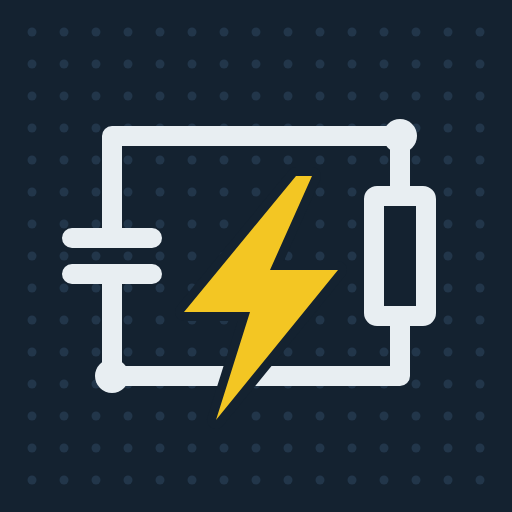
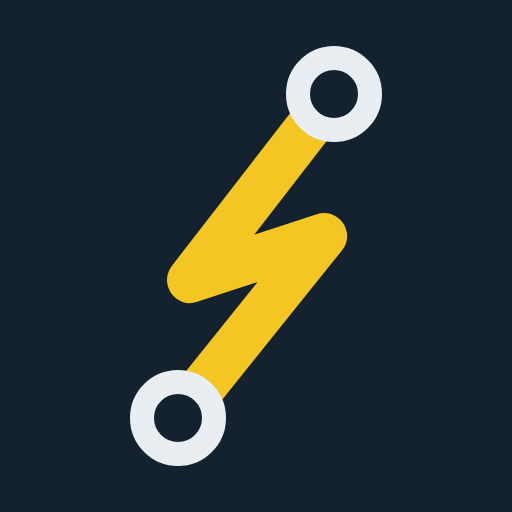
Add files via upload

Changed region(s): [[0.0938, 0.0625, 0.875, 0.9375]]

diff --git a/index.html b/index.html
@@ -79,6 +79,14 @@ html.standalone #splash { display: flex; }
 #splash.out { opacity: 0; pointer-events: none; }
 #splash svg { width: 30vmin; height: 30vmin; border-radius: 22%; }
 #splash span { color: #e8eef2; font: 600 28px/1 var(--f-cond); letter-spacing: .02em; }
+/* App installée sur l'écran d'accueil : iOS calcule height: 100% trop court en plein écran,
+   on ancre donc l'app sur tout l'écran et chaque barre gère sa propre marge de sécurité. */
+html.standalone { padding: 0; background: var(--chrome); }
+html.standalone #app { position: fixed; inset: 0; height: auto; padding-left: env(safe-area-inset-left, 0px); padding-right: env(safe-area-inset-right, 0px); }
+html.standalone .top { padding-top: calc(8px + env(safe-area-inset-top, 0px)); }
+html.standalone .tools { padding-bottom: calc(6px + env(safe-area-inset-bottom, 0px)); }
+html.standalone .net-wrap { padding-bottom: calc(12px + env(safe-area-inset-bottom, 0px)); }
+html.standalone .scroll { padding-bottom: calc(32px + env(safe-area-inset-bottom, 0px)); }
 .iconbtn { flex: 0 0 auto; width: 42px; height: 42px; display: grid; place-items: center; border: 1px solid var(--line); border-radius: 11px; background: var(--surface); color: var(--ink); padding: 0; }
 .iconbtn svg { width: 22px; height: 22px; fill: none; stroke: currentColor; stroke-width: 2; stroke-linecap: round; stroke-linejoin: round; }
 .iconbtn.sm { width: 36px; height: 36px; border-radius: 10px; }
@@ -216,15 +224,11 @@ h3.sec { margin: 22px 0 6px; font: 600 18px/1.2 var(--f-cond); }
 <body>
 <div id="splash" aria-hidden="true"><svg xmlns="http://www.w3.org/2000/svg" viewBox="0 0 512 512">
 <rect width="512" height="512" fill="#142230"/>
-<g fill="#22364a"><circle cx="32" cy="32" r="4.5"/><circle cx="32" cy="64" r="4.5"/><circle cx="32" cy="96" r="4.5"/><circle cx="32" cy="128" r="4.5"/><circle cx="32" cy="160" r="4.5"/><circle cx="32" cy="192" r="4.5"/><circle cx="32" cy="224" r="4.5"/><circle cx="32" cy="256" r="4.5"/><circle cx="32" cy="288" r="4.5"/><circle cx="32" cy="320" r="4.5"/><circle cx="32" cy="352" r="4.5"/><circle cx="32" cy="384" r="4.5"/><circle cx="32" cy="416" r="4.5"/><circle cx="32" cy="448" r="4.5"/><circle cx="32" cy="480" r="4.5"/><circle cx="64" cy="32" r="4.5"/><circle cx="64" cy="64" r="4.5"/><circle cx="64" cy="96" r="4.5"/><circle cx="64" cy="128" r="4.5"/><circle cx="64" cy="160" r="4.5"/><circle cx="64" cy="192" r="4.5"/><circle cx="64" cy="224" r="4.5"/><circle cx="64" cy="256" r="4.5"/><circle cx="64" cy="288" r="4.5"/><circle cx="64" cy="320" r="4.5"/><circle cx="64" cy="352" r="4.5"/><circle cx="64" cy="384" r="4.5"/><circle cx="64" cy="416" r="4.5"/><circle cx="64" cy="448" r="4.5"/><circle cx="64" cy="480" r="4.5"/><circle cx="96" cy="32" r="4.5"/><circle cx="96" cy="64" r="4.5"/><circle cx="96" cy="96" r="4.5"/><circle cx="96" cy="128" r="4.5"/><circle cx="96" cy="160" r="4.5"/><circle cx="96" cy="192" r="4.5"/><circle cx="96" cy="224" r="4.5"/><circle cx="96" cy="256" r="4.5"/><circle cx="96" cy="288" r="4.5"/><circle cx="96" cy="320" r="4.5"/><circle cx="96" cy="352" r="4.5"/><circle cx="96" cy="384" r="4.5"/><circle cx="96" cy="416" r="4.5"/><circle cx="96" cy="448" r="4.5"/><circle cx="96" cy="480" r="4.5"/><circle cx="128" cy="32" r="4.5"/><circle cx="128" cy="64" r="4.5"/><circle cx="128" cy="96" r="4.5"/><circle cx="128" cy="128" r="4.5"/><circle cx="128" cy="160" r="4.5"/><circle cx="128" cy="192" r="4.5"/><circle cx="128" cy="224" r="4.5"/><circle cx="128" cy="256" r="4.5"/><circle cx="128" cy="288" r="4.5"/><circle cx="128" cy="320" r="4.5"/><circle cx="128" cy="352" r="4.5"/><circle cx="128" cy="384" r="4.5"/><circle cx="128" cy="416" r="4.5"/><circle cx="128" cy="448" r="4.5"/><circle cx="128" cy="480" r="4.5"/><circle cx="160" cy="32" r="4.5"/><circle cx="160" cy="64" r="4.5"/><circle cx="160" cy="96" r="4.5"/><circle cx="160" cy="128" r="4.5"/><circle cx="160" cy="160" r="4.5"/><circle cx="160" cy="192" r="4.5"/><circle cx="160" cy="224" r="4.5"/><circle cx="160" cy="256" r="4.5"/><circle cx="160" cy="288" r="4.5"/><circle cx="160" cy="320" r="4.5"/><circle cx="160" cy="352" r="4.5"/><circle cx="160" cy="384" r="4.5"/><circle cx="160" cy="416" r="4.5"/><circle cx="160" cy="448" r="4.5"/><circle cx="160" cy="480" r="4.5"/><circle cx="192" cy="32" r="4.5"/><circle cx="192" cy="64" r="4.5"/><circle cx="192" cy="96" r="4.5"/><circle cx="192" cy="128" r="4.5"/><circle cx="192" cy="160" r="4.5"/><circle cx="192" cy="192" r="4.5"/><circle cx="192" cy="224" r="4.5"/><circle cx="192" cy="256" r="4.5"/><circle cx="192" cy="288" r="4.5"/><circle cx="192" cy="320" r="4.5"/><circle cx="192" cy="352" r="4.5"/><circle cx="192" cy="384" r="4.5"/><circle cx="192" cy="416" r="4.5"/><circle cx="192" cy="448" r="4.5"/><circle cx="192" cy="480" r="4.5"/><circle cx="224" cy="32" r="4.5"/><circle cx="224" cy="64" r="4.5"/><circle cx="224" cy="96" r="4.5"/><circle cx="224" cy="128" r="4.5"/><circle cx="224" cy="160" r="4.5"/><circle cx="224" cy="192" r="4.5"/><circle cx="224" cy="224" r="4.5"/><circle cx="224" cy="256" r="4.5"/><circle cx="224" cy="288" r="4.5"/><circle cx="224" cy="320" r="4.5"/><circle cx="224" cy="352" r="4.5"/><circle cx="224" cy="384" r="4.5"/><circle cx="224" cy="416" r="4.5"/><circle cx="224" cy="448" r="4.5"/><circle cx="224" cy="480" r="4.5"/><circle cx="256" cy="32" r="4.5"/><circle cx="256" cy="64" r="4.5"/><circle cx="256" cy="96" r="4.5"/><circle cx="256" cy="128" r="4.5"/><circle cx="256" cy="160" r="4.5"/><circle cx="256" cy="192" r="4.5"/><circle cx="256" cy="224" r="4.5"/><circle cx="256" cy="256" r="4.5"/><circle cx="256" cy="288" r="4.5"/><circle cx="256" cy="320" r="4.5"/><circle cx="256" cy="352" r="4.5"/><circle cx="256" cy="384" r="4.5"/><circle cx="256" cy="416" r="4.5"/><circle cx="256" cy="448" r="4.5"/><circle cx="256" cy="480" r="4.5"/><circle cx="288" cy="32" r="4.5"/><circle cx="288" cy="64" r="4.5"/><circle cx="288" cy="96" r="4.5"/><circle cx="288" cy="128" r="4.5"/><circle cx="288" cy="160" r="4.5"/><circle cx="288" cy="192" r="4.5"/><circle cx="288" cy="224" r="4.5"/><circle cx="288" cy="256" r="4.5"/><circle cx="288" cy="288" r="4.5"/><circle cx="288" cy="320" r="4.5"/><circle cx="288" cy="352" r="4.5"/><circle cx="288" cy="384" r="4.5"/><circle cx="288" cy="416" r="4.5"/><circle cx="288" cy="448" r="4.5"/><circle cx="288" cy="480" r="4.5"/><circle cx="320" cy="32" r="4.5"/><circle cx="320" cy="64" r="4.5"/><circle cx="320" cy="96" r="4.5"/><circle cx="320" cy="128" r="4.5"/><circle cx="320" cy="160" r="4.5"/><circle cx="320" cy="192" r="4.5"/><circle cx="320" cy="224" r="4.5"/><circle cx="320" cy="256" r="4.5"/><circle cx="320" cy="288" r="4.5"/><circle cx="320" cy="320" r="4.5"/><circle cx="320" cy="352" r="4.5"/><circle cx="320" cy="384" r="4.5"/><circle cx="320" cy="416" r="4.5"/><circle cx="320" cy="448" r="4.5"/><circle cx="320" cy="480" r="4.5"/><circle cx="352" cy="32" r="4.5"/><circle cx="352" cy="64" r="4.5"/><circle cx="352" cy="96" r="4.5"/><circle cx="352" cy="128" r="4.5"/><circle cx="352" cy="160" r="4.5"/><circle cx="352" cy="192" r="4.5"/><circle cx="352" cy="224" r="4.5"/><circle cx="352" cy="256" r="4.5"/><circle cx="352" cy="288" r="4.5"/><circle cx="352" cy="320" r="4.5"/><circle cx="352" cy="352" r="4.5"/><circle cx="352" cy="384" r="4.5"/><circle cx="352" cy="416" r="4.5"/><circle cx="352" cy="448" r="4.5"/><circle cx="352" cy="480" r="4.5"/><circle cx="384" cy="32" r="4.5"/><circle cx="384" cy="64" r="4.5"/><circle cx="384" cy="96" r="4.5"/><circle cx="384" cy="128" r="4.5"/><circle cx="384" cy="160" r="4.5"/><circle cx="384" cy="192" r="4.5"/><circle cx="384" cy="224" r="4.5"/><circle cx="384" cy="256" r="4.5"/><circle cx="384" cy="288" r="4.5"/><circle cx="384" cy="320" r="4.5"/><circle cx="384" cy="352" r="4.5"/><circle cx="384" cy="384" r="4.5"/><circle cx="384" cy="416" r="4.5"/><circle cx="384" cy="448" r="4.5"/><circle cx="384" cy="480" r="4.5"/><circle cx="416" cy="32" r="4.5"/><circle cx="416" cy="64" r="4.5"/><circle cx="416" cy="96" r="4.5"/><circle cx="416" cy="128" r="4.5"/><circle cx="416" cy="160" r="4.5"/><circle cx="416" cy="192" r="4.5"/><circle cx="416" cy="224" r="4.5"/><circle cx="416" cy="256" r="4.5"/><circle cx="416" cy="288" r="4.5"/><circle cx="416" cy="320" r="4.5"/><circle cx="416" cy="352" r="4.5"/><circle cx="416" cy="384" r="4.5"/><circle cx="416" cy="416" r="4.5"/><circle cx="416" cy="448" r="4.5"/><circle cx="416" cy="480" r="4.5"/><circle cx="448" cy="32" r="4.5"/><circle cx="448" cy="64" r="4.5"/><circle cx="448" cy="96" r="4.5"/><circle cx="448" cy="128" r="4.5"/><circle cx="448" cy="160" r="4.5"/><circle cx="448" cy="192" r="4.5"/><circle cx="448" cy="224" r="4.5"/><circle cx="448" cy="256" r="4.5"/><circle cx="448" cy="288" r="4.5"/><circle cx="448" cy="320" r="4.5"/><circle cx="448" cy="352" r="4.5"/><circle cx="448" cy="384" r="4.5"/><circle cx="448" cy="416" r="4.5"/><circle cx="448" cy="448" r="4.5"/><circle cx="448" cy="480" r="4.5"/><circle cx="480" cy="32" r="4.5"/><circle cx="480" cy="64" r="4.5"/><circle cx="480" cy="96" r="4.5"/><circle cx="480" cy="128" r="4.5"/><circle cx="480" cy="160" r="4.5"/><circle cx="480" cy="192" r="4.5"/><circle cx="480" cy="224" r="4.5"/><circle cx="480" cy="256" r="4.5"/><circle cx="480" cy="288" r="4.5"/><circle cx="480" cy="320" r="4.5"/><circle cx="480" cy="352" r="4.5"/><circle cx="480" cy="384" r="4.5"/><circle cx="480" cy="416" r="4.5"/><circle cx="480" cy="448" r="4.5"/><circle cx="480" cy="480" r="4.5"/></g>
-<g fill="none" stroke="#e8eef2" stroke-width="20" stroke-linejoin="round" stroke-linecap="round">
-<path d="M112 238 V136 H400 V376 H112 V274"/>
-<rect x="374" y="196" width="52" height="120" rx="3" fill="#142230"/>
-</g>
-<g stroke="#e8eef2" stroke-width="20" stroke-linecap="round"><path d="M72 238 H152 M72 274 H152"/></g>
-<g fill="#e8eef2"><circle cx="400" cy="136" r="17"/><circle cx="112" cy="376" r="17"/></g>
-<path d="M296 176 L184 312 H250 L216 420 L338 270 H270 L312 176 Z" fill="#f3c623" stroke="#142230" stroke-width="18" stroke-linejoin="round" paint-order="stroke"/>
-</svg><span>PocketSpice</span></div>
+<polyline points="334,94 190,280 324,236 178,418" fill="none" stroke="#f3c623" stroke-width="46" stroke-linecap="round" stroke-linejoin="round"/>
+<circle cx="334" cy="94" r="36" fill="#142230" stroke="#e8eef2" stroke-width="24"/>
+<circle cx="178" cy="418" r="36" fill="#142230" stroke="#e8eef2" stroke-width="24"/>
+</svg>
+<span>PocketSpice</span></div>
 <input type="file" id="importFile" accept=".json,application/json" hidden>
 <div id="app">
   <header class="top">
@@ -279,7 +283,7 @@ h3.sec { margin: 22px 0 6px; font: 600 18px/1.2 var(--f-cond); }
 <div class="modal" id="modal" hidden><div class="modal-card" id="modalCard"></div></div>
 <div id="toast" role="status" aria-live="polite"></div>
 <script>
-const LOGO_SVG = "<svg xmlns=\"http://www.w3.org/2000/svg\" viewBox=\"0 0 512 512\">\n<rect width=\"512\" height=\"512\" fill=\"#142230\"/>\n<g fill=\"#22364a\"><circle cx=\"32\" cy=\"32\" r=\"4.5\"/><circle cx=\"32\" cy=\"64\" r=\"4.5\"/><circle cx=\"32\" cy=\"96\" r=\"4.5\"/><circle cx=\"32\" cy=\"128\" r=\"4.5\"/><circle cx=\"32\" cy=\"160\" r=\"4.5\"/><circle cx=\"32\" cy=\"192\" r=\"4.5\"/><circle cx=\"32\" cy=\"224\" r=\"4.5\"/><circle cx=\"32\" cy=\"256\" r=\"4.5\"/><circle cx=\"32\" cy=\"288\" r=\"4.5\"/><circle cx=\"32\" cy=\"320\" r=\"4.5\"/><circle cx=\"32\" cy=\"352\" r=\"4.5\"/><circle cx=\"32\" cy=\"384\" r=\"4.5\"/><circle cx=\"32\" cy=\"416\" r=\"4.5\"/><circle cx=\"32\" cy=\"448\" r=\"4.5\"/><circle cx=\"32\" cy=\"480\" r=\"4.5\"/><circle cx=\"64\" cy=\"32\" r=\"4.5\"/><circle cx=\"64\" cy=\"64\" r=\"4.5\"/><circle cx=\"64\" cy=\"96\" r=\"4.5\"/><circle cx=\"64\" cy=\"128\" r=\"4.5\"/><circle cx=\"64\" cy=\"160\" r=\"4.5\"/><circle cx=\"64\" cy=\"192\" r=\"4.5\"/><circle cx=\"64\" cy=\"224\" r=\"4.5\"/><circle cx=\"64\" cy=\"256\" r=\"4.5\"/><circle cx=\"64\" cy=\"288\" r=\"4.5\"/><circle cx=\"64\" cy=\"320\" r=\"4.5\"/><circle cx=\"64\" cy=\"352\" r=\"4.5\"/><circle cx=\"64\" cy=\"384\" r=\"4.5\"/><circle cx=\"64\" cy=\"416\" r=\"4.5\"/><circle cx=\"64\" cy=\"448\" r=\"4.5\"/><circle cx=\"64\" cy=\"480\" r=\"4.5\"/><circle cx=\"96\" cy=\"32\" r=\"4.5\"/><circle cx=\"96\" cy=\"64\" r=\"4.5\"/><circle cx=\"96\" cy=\"96\" r=\"4.5\"/><circle cx=\"96\" cy=\"128\" r=\"4.5\"/><circle cx=\"96\" cy=\"160\" r=\"4.5\"/><circle cx=\"96\" cy=\"192\" r=\"4.5\"/><circle cx=\"96\" cy=\"224\" r=\"4.5\"/><circle cx=\"96\" cy=\"256\" r=\"4.5\"/><circle cx=\"96\" cy=\"288\" r=\"4.5\"/><circle cx=\"96\" cy=\"320\" r=\"4.5\"/><circle cx=\"96\" cy=\"352\" r=\"4.5\"/><circle cx=\"96\" cy=\"384\" r=\"4.5\"/><circle cx=\"96\" cy=\"416\" r=\"4.5\"/><circle cx=\"96\" cy=\"448\" r=\"4.5\"/><circle cx=\"96\" cy=\"480\" r=\"4.5\"/><circle cx=\"128\" cy=\"32\" r=\"4.5\"/><circle cx=\"128\" cy=\"64\" r=\"4.5\"/><circle cx=\"128\" cy=\"96\" r=\"4.5\"/><circle cx=\"128\" cy=\"128\" r=\"4.5\"/><circle cx=\"128\" cy=\"160\" r=\"4.5\"/><circle cx=\"128\" cy=\"192\" r=\"4.5\"/><circle cx=\"128\" cy=\"224\" r=\"4.5\"/><circle cx=\"128\" cy=\"256\" r=\"4.5\"/><circle cx=\"128\" cy=\"288\" r=\"4.5\"/><circle cx=\"128\" cy=\"320\" r=\"4.5\"/><circle cx=\"128\" cy=\"352\" r=\"4.5\"/><circle cx=\"128\" cy=\"384\" r=\"4.5\"/><circle cx=\"128\" cy=\"416\" r=\"4.5\"/><circle cx=\"128\" cy=\"448\" r=\"4.5\"/><circle cx=\"128\" cy=\"480\" r=\"4.5\"/><circle cx=\"160\" cy=\"32\" r=\"4.5\"/><circle cx=\"160\" cy=\"64\" r=\"4.5\"/><circle cx=\"160\" cy=\"96\" r=\"4.5\"/><circle cx=\"160\" cy=\"128\" r=\"4.5\"/><circle cx=\"160\" cy=\"160\" r=\"4.5\"/><circle cx=\"160\" cy=\"192\" r=\"4.5\"/><circle cx=\"160\" cy=\"224\" r=\"4.5\"/><circle cx=\"160\" cy=\"256\" r=\"4.5\"/><circle cx=\"160\" cy=\"288\" r=\"4.5\"/><circle cx=\"160\" cy=\"320\" r=\"4.5\"/><circle cx=\"160\" cy=\"352\" r=\"4.5\"/><circle cx=\"160\" cy=\"384\" r=\"4.5\"/><circle cx=\"160\" cy=\"416\" r=\"4.5\"/><circle cx=\"160\" cy=\"448\" r=\"4.5\"/><circle cx=\"160\" cy=\"480\" r=\"4.5\"/><circle cx=\"192\" cy=\"32\" r=\"4.5\"/><circle cx=\"192\" cy=\"64\" r=\"4.5\"/><circle cx=\"192\" cy=\"96\" r=\"4.5\"/><circle cx=\"192\" cy=\"128\" r=\"4.5\"/><circle cx=\"192\" cy=\"160\" r=\"4.5\"/><circle cx=\"192\" cy=\"192\" r=\"4.5\"/><circle cx=\"192\" cy=\"224\" r=\"4.5\"/><circle cx=\"192\" cy=\"256\" r=\"4.5\"/><circle cx=\"192\" cy=\"288\" r=\"4.5\"/><circle cx=\"192\" cy=\"320\" r=\"4.5\"/><circle cx=\"192\" cy=\"352\" r=\"4.5\"/><circle cx=\"192\" cy=\"384\" r=\"4.5\"/><circle cx=\"192\" cy=\"416\" r=\"4.5\"/><circle cx=\"192\" cy=\"448\" r=\"4.5\"/><circle cx=\"192\" cy=\"480\" r=\"4.5\"/><circle cx=\"224\" cy=\"32\" r=\"4.5\"/><circle cx=\"224\" cy=\"64\" r=\"4.5\"/><circle cx=\"224\" cy=\"96\" r=\"4.5\"/><circle cx=\"224\" cy=\"128\" r=\"4.5\"/><circle cx=\"224\" cy=\"160\" r=\"4.5\"/><circle cx=\"224\" cy=\"192\" r=\"4.5\"/><circle cx=\"224\" cy=\"224\" r=\"4.5\"/><circle cx=\"224\" cy=\"256\" r=\"4.5\"/><circle cx=\"224\" cy=\"288\" r=\"4.5\"/><circle cx=\"224\" cy=\"320\" r=\"4.5\"/><circle cx=\"224\" cy=\"352\" r=\"4.5\"/><circle cx=\"224\" cy=\"384\" r=\"4.5\"/><circle cx=\"224\" cy=\"416\" r=\"4.5\"/><circle cx=\"224\" cy=\"448\" r=\"4.5\"/><circle cx=\"224\" cy=\"480\" r=\"4.5\"/><circle cx=\"256\" cy=\"32\" r=\"4.5\"/><circle cx=\"256\" cy=\"64\" r=\"4.5\"/><circle cx=\"256\" cy=\"96\" r=\"4.5\"/><circle cx=\"256\" cy=\"128\" r=\"4.5\"/><circle cx=\"256\" cy=\"160\" r=\"4.5\"/><circle cx=\"256\" cy=\"192\" r=\"4.5\"/><circle cx=\"256\" cy=\"224\" r=\"4.5\"/><circle cx=\"256\" cy=\"256\" r=\"4.5\"/><circle cx=\"256\" cy=\"288\" r=\"4.5\"/><circle cx=\"256\" cy=\"320\" r=\"4.5\"/><circle cx=\"256\" cy=\"352\" r=\"4.5\"/><circle cx=\"256\" cy=\"384\" r=\"4.5\"/><circle cx=\"256\" cy=\"416\" r=\"4.5\"/><circle cx=\"256\" cy=\"448\" r=\"4.5\"/><circle cx=\"256\" cy=\"480\" r=\"4.5\"/><circle cx=\"288\" cy=\"32\" r=\"4.5\"/><circle cx=\"288\" cy=\"64\" r=\"4.5\"/><circle cx=\"288\" cy=\"96\" r=\"4.5\"/><circle cx=\"288\" cy=\"128\" r=\"4.5\"/><circle cx=\"288\" cy=\"160\" r=\"4.5\"/><circle cx=\"288\" cy=\"192\" r=\"4.5\"/><circle cx=\"288\" cy=\"224\" r=\"4.5\"/><circle cx=\"288\" cy=\"256\" r=\"4.5\"/><circle cx=\"288\" cy=\"288\" r=\"4.5\"/><circle cx=\"288\" cy=\"320\" r=\"4.5\"/><circle cx=\"288\" cy=\"352\" r=\"4.5\"/><circle cx=\"288\" cy=\"384\" r=\"4.5\"/><circle cx=\"288\" cy=\"416\" r=\"4.5\"/><circle cx=\"288\" cy=\"448\" r=\"4.5\"/><circle cx=\"288\" cy=\"480\" r=\"4.5\"/><circle cx=\"320\" cy=\"32\" r=\"4.5\"/><circle cx=\"320\" cy=\"64\" r=\"4.5\"/><circle cx=\"320\" cy=\"96\" r=\"4.5\"/><circle cx=\"320\" cy=\"128\" r=\"4.5\"/><circle cx=\"320\" cy=\"160\" r=\"4.5\"/><circle cx=\"320\" cy=\"192\" r=\"4.5\"/><circle cx=\"320\" cy=\"224\" r=\"4.5\"/><circle cx=\"320\" cy=\"256\" r=\"4.5\"/><circle cx=\"320\" cy=\"288\" r=\"4.5\"/><circle cx=\"320\" cy=\"320\" r=\"4.5\"/><circle cx=\"320\" cy=\"352\" r=\"4.5\"/><circle cx=\"320\" cy=\"384\" r=\"4.5\"/><circle cx=\"320\" cy=\"416\" r=\"4.5\"/><circle cx=\"320\" cy=\"448\" r=\"4.5\"/><circle cx=\"320\" cy=\"480\" r=\"4.5\"/><circle cx=\"352\" cy=\"32\" r=\"4.5\"/><circle cx=\"352\" cy=\"64\" r=\"4.5\"/><circle cx=\"352\" cy=\"96\" r=\"4.5\"/><circle cx=\"352\" cy=\"128\" r=\"4.5\"/><circle cx=\"352\" cy=\"160\" r=\"4.5\"/><circle cx=\"352\" cy=\"192\" r=\"4.5\"/><circle cx=\"352\" cy=\"224\" r=\"4.5\"/><circle cx=\"352\" cy=\"256\" r=\"4.5\"/><circle cx=\"352\" cy=\"288\" r=\"4.5\"/><circle cx=\"352\" cy=\"320\" r=\"4.5\"/><circle cx=\"352\" cy=\"352\" r=\"4.5\"/><circle cx=\"352\" cy=\"384\" r=\"4.5\"/><circle cx=\"352\" cy=\"416\" r=\"4.5\"/><circle cx=\"352\" cy=\"448\" r=\"4.5\"/><circle cx=\"352\" cy=\"480\" r=\"4.5\"/><circle cx=\"384\" cy=\"32\" r=\"4.5\"/><circle cx=\"384\" cy=\"64\" r=\"4.5\"/><circle cx=\"384\" cy=\"96\" r=\"4.5\"/><circle cx=\"384\" cy=\"128\" r=\"4.5\"/><circle cx=\"384\" cy=\"160\" r=\"4.5\"/><circle cx=\"384\" cy=\"192\" r=\"4.5\"/><circle cx=\"384\" cy=\"224\" r=\"4.5\"/><circle cx=\"384\" cy=\"256\" r=\"4.5\"/><circle cx=\"384\" cy=\"288\" r=\"4.5\"/><circle cx=\"384\" cy=\"320\" r=\"4.5\"/><circle cx=\"384\" cy=\"352\" r=\"4.5\"/><circle cx=\"384\" cy=\"384\" r=\"4.5\"/><circle cx=\"384\" cy=\"416\" r=\"4.5\"/><circle cx=\"384\" cy=\"448\" r=\"4.5\"/><circle cx=\"384\" cy=\"480\" r=\"4.5\"/><circle cx=\"416\" cy=\"32\" r=\"4.5\"/><circle cx=\"416\" cy=\"64\" r=\"4.5\"/><circle cx=\"416\" cy=\"96\" r=\"4.5\"/><circle cx=\"416\" cy=\"128\" r=\"4.5\"/><circle cx=\"416\" cy=\"160\" r=\"4.5\"/><circle cx=\"416\" cy=\"192\" r=\"4.5\"/><circle cx=\"416\" cy=\"224\" r=\"4.5\"/><circle cx=\"416\" cy=\"256\" r=\"4.5\"/><circle cx=\"416\" cy=\"288\" r=\"4.5\"/><circle cx=\"416\" cy=\"320\" r=\"4.5\"/><circle cx=\"416\" cy=\"352\" r=\"4.5\"/><circle cx=\"416\" cy=\"384\" r=\"4.5\"/><circle cx=\"416\" cy=\"416\" r=\"4.5\"/><circle cx=\"416\" cy=\"448\" r=\"4.5\"/><circle cx=\"416\" cy=\"480\" r=\"4.5\"/><circle cx=\"448\" cy=\"32\" r=\"4.5\"/><circle cx=\"448\" cy=\"64\" r=\"4.5\"/><circle cx=\"448\" cy=\"96\" r=\"4.5\"/><circle cx=\"448\" cy=\"128\" r=\"4.5\"/><circle cx=\"448\" cy=\"160\" r=\"4.5\"/><circle cx=\"448\" cy=\"192\" r=\"4.5\"/><circle cx=\"448\" cy=\"224\" r=\"4.5\"/><circle cx=\"448\" cy=\"256\" r=\"4.5\"/><circle cx=\"448\" cy=\"288\" r=\"4.5\"/><circle cx=\"448\" cy=\"320\" r=\"4.5\"/><circle cx=\"448\" cy=\"352\" r=\"4.5\"/><circle cx=\"448\" cy=\"384\" r=\"4.5\"/><circle cx=\"448\" cy=\"416\" r=\"4.5\"/><circle cx=\"448\" cy=\"448\" r=\"4.5\"/><circle cx=\"448\" cy=\"480\" r=\"4.5\"/><circle cx=\"480\" cy=\"32\" r=\"4.5\"/><circle cx=\"480\" cy=\"64\" r=\"4.5\"/><circle cx=\"480\" cy=\"96\" r=\"4.5\"/><circle cx=\"480\" cy=\"128\" r=\"4.5\"/><circle cx=\"480\" cy=\"160\" r=\"4.5\"/><circle cx=\"480\" cy=\"192\" r=\"4.5\"/><circle cx=\"480\" cy=\"224\" r=\"4.5\"/><circle cx=\"480\" cy=\"256\" r=\"4.5\"/><circle cx=\"480\" cy=\"288\" r=\"4.5\"/><circle cx=\"480\" cy=\"320\" r=\"4.5\"/><circle cx=\"480\" cy=\"352\" r=\"4.5\"/><circle cx=\"480\" cy=\"384\" r=\"4.5\"/><circle cx=\"480\" cy=\"416\" r=\"4.5\"/><circle cx=\"480\" cy=\"448\" r=\"4.5\"/><circle cx=\"480\" cy=\"480\" r=\"4.5\"/></g>\n<g fill=\"none\" stroke=\"#e8eef2\" stroke-width=\"20\" stroke-linejoin=\"round\" stroke-linecap=\"round\">\n<path d=\"M112 238 V136 H400 V376 H112 V274\"/>\n<rect x=\"374\" y=\"196\" width=\"52\" height=\"120\" rx=\"3\" fill=\"#142230\"/>\n</g>\n<g stroke=\"#e8eef2\" stroke-width=\"20\" stroke-linecap=\"round\"><path d=\"M72 238 H152 M72 274 H152\"/></g>\n<g fill=\"#e8eef2\"><circle cx=\"400\" cy=\"136\" r=\"17\"/><circle cx=\"112\" cy=\"376\" r=\"17\"/></g>\n<path d=\"M296 176 L184 312 H250 L216 420 L338 270 H270 L312 176 Z\" fill=\"#f3c623\" stroke=\"#142230\" stroke-width=\"18\" stroke-linejoin=\"round\" paint-order=\"stroke\"/>\n</svg>";
+const LOGO_SVG = "<svg xmlns=\"http://www.w3.org/2000/svg\" viewBox=\"0 0 512 512\">\n<rect width=\"512\" height=\"512\" fill=\"#142230\"/>\n<polyline points=\"334,94 190,280 324,236 178,418\" fill=\"none\" stroke=\"#f3c623\" stroke-width=\"46\" stroke-linecap=\"round\" stroke-linejoin=\"round\"/>\n<circle cx=\"334\" cy=\"94\" r=\"36\" fill=\"#142230\" stroke=\"#e8eef2\" stroke-width=\"24\"/>\n<circle cx=\"178\" cy=\"418\" r=\"36\" fill=\"#142230\" stroke=\"#e8eef2\" stroke-width=\"24\"/>\n</svg>\n";
 </script>
 <script>
 /* ===================== PocketSpice — moteur .op ===================== */
@@ -2269,6 +2273,17 @@ M3 d g s s MN W=20u L=1u
   if (splash) {
     if (standalone) requestAnimationFrame(() => setTimeout(() => { splash.classList.add('out'); setTimeout(() => splash.remove(), 450); }, 280));
     else splash.remove();
+  }
+  if (standalone) {
+    // Après la fermeture du clavier, iOS garde parfois une hauteur réduite : on force un nouveau calcul.
+    document.addEventListener('focusout', (e) => {
+      if (!/^(INPUT|TEXTAREA)$/.test(e.target.tagName)) return;
+      setTimeout(() => {
+        const app = document.getElementById('app');
+        app.style.display = 'none'; void app.offsetHeight; app.style.display = '';
+        window.scrollTo(0, 0); schedule(); positionFloat();
+      }, 60);
+    });
   }
   function makeStartupImage() {
     const ios = /iPhone|iPad|iPod/.test(navigator.userAgent) || (navigator.platform === 'MacIntel' && navigator.maxTouchPoints > 1);

diff --git a/sw.js b/sw.js
@@ -1,5 +1,5 @@
 /* PocketSpice : fonctionnement hors ligne */
-const CACHE = 'pocketspice-v3';
+const CACHE = 'pocketspice-v4';
 const CORE = ['./', './index.html', './manifest.webmanifest', './icon-180.png', './icon-192.png', './icon-512.png'];
 
 self.addEventListener('install', (e) => {
